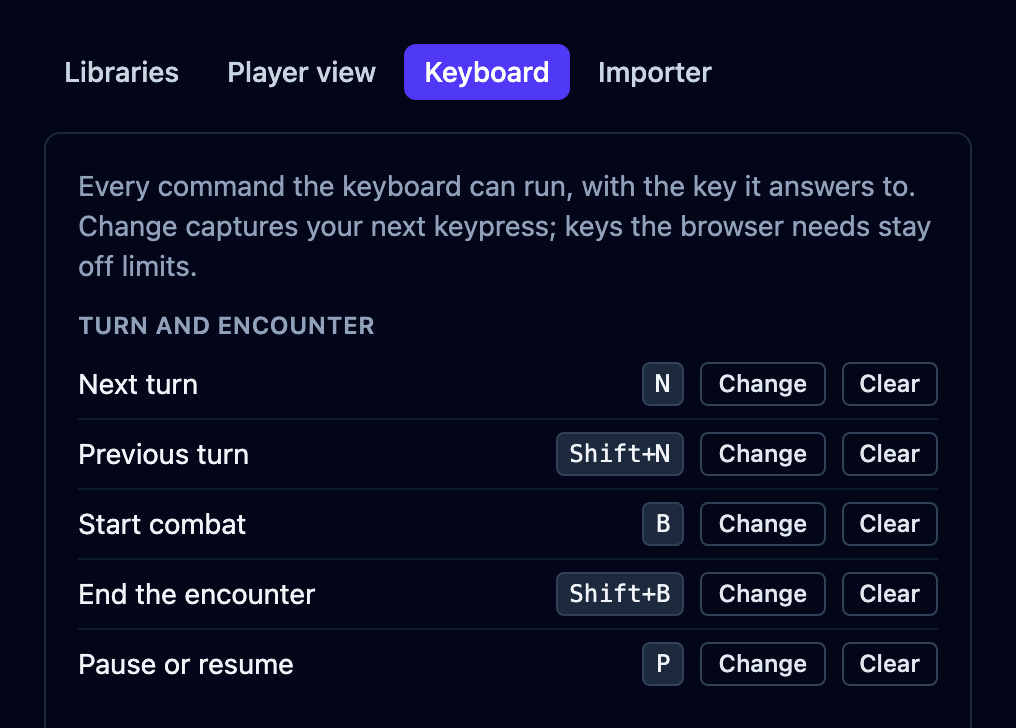
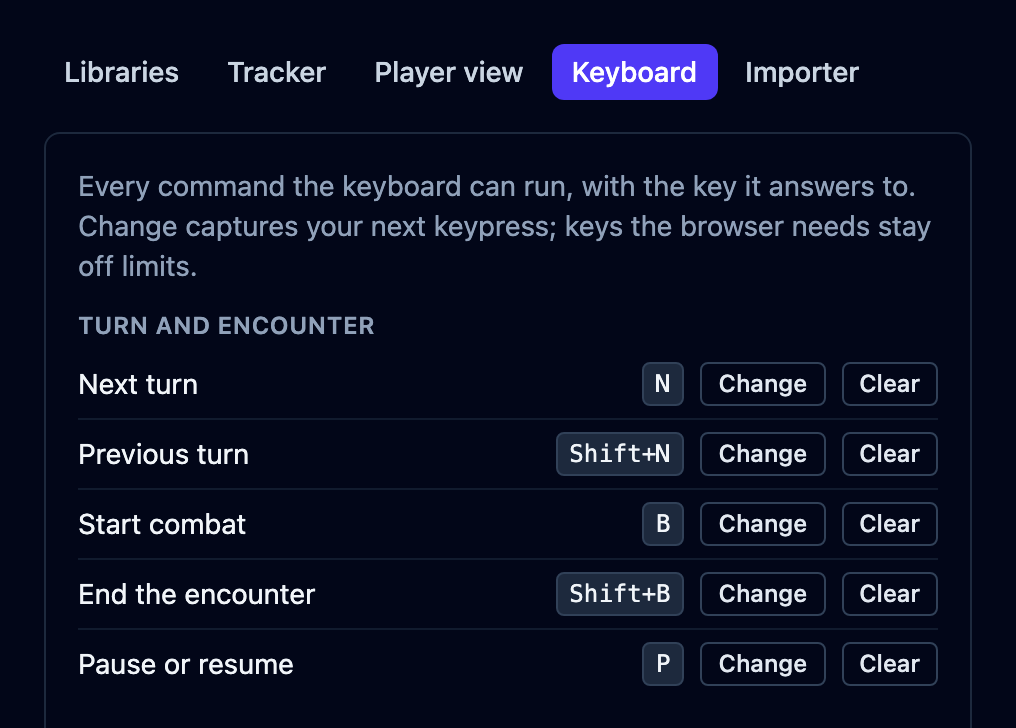
Docs: Explain stable creature label styles
Document the Tracker settings tab and refresh its related settings captures.

Refs OpenFrayApp/console#75

Changed region(s): [[0.2136, 0.0604, 0.8543, 0.1511]]

diff --git a/src/content/docs/reference/settings.md b/src/content/docs/reference/settings.md
@@ -15,8 +15,8 @@ no account needed. Click the **gear** at the top right and choose **Settings**. 
 menu holds the light and dark switch, the keyboard cheat sheet, a link to this handbook,
 and **Report a bug**, which opens a new issue on GitHub.
 
-Settings opens on four tabs (**Libraries**, **Player view**, **Keyboard**, and
-**Importer**) and starts on Libraries.
+Settings opens on five tabs (**Libraries**, **Tracker**, **Player view**, **Keyboard**,
+and **Importer**) and starts on Libraries.
 
 ## Libraries
 
@@ -47,23 +47,41 @@ remembered in your browser, so it sticks whether or not you're signed in.
 
 ![The Settings screen on its Libraries tab, with the tab strip and the library list outlined in red and labeled.](../../../assets/screens/settings-panel.png)
 
+## Tracker
+
+Open the **Tracker** tab and choose **Creature labels** to set how repeated creatures
+are labeled:
+
+| Style                 | Examples                        |
+| --------------------- | ------------------------------- |
+| **Numeric** (default) | Goblin 1, Goblin 2, Goblin 3    |
+| **Roman numerals**    | Goblin I, Goblin II, Goblin III |
+| **Letters**           | Goblin A, Goblin B, Goblin C    |
+
+A single creature keeps its name. Adding a second matching creature labels both.
+Removing creatures leaves the remaining labels unchanged. Changing the style affects
+new labels; existing labels and names you type stay as they are. Letters continue after
+Z as AA, AB, and so on.
+
+![The Tracker tab in Settings, with Creature labels set to Numeric and the dropdown outlined in red.](../../../assets/screens/creature-labels.png)
+
 ## Player view
 
 The **player view** is a read-only screen your players follow on their own devices. Its
 tab decides how much of a fight reaches them:
 
-| Setting                              | What you can choose                         | Starts as            |
-| ------------------------------------ | ------------------------------------------- | -------------------- |
-| **Creature hit points**              | In words (Bloodied) · Exact number · Hidden | In words             |
-| **Creature armor class**             | Hidden · Shown                              | Hidden               |
-| **Creature rolls**                   | Shown · Hidden                              | Shown                |
-| **Creature conditions**              | Shown · Hidden                              | Shown                |
-| **Creatures arriving mid-encounter** | Shown · Hidden until revealed               | Shown                |
-| **Game log**                         | This encounter only · The whole session     | This encounter only  |
-| **Encounter clocks**                 | Shown · Hidden                              | Shown                |
-| **End-of-encounter summary**         | Shown · Hidden                              | Shown                |
-| **Campaign name**                    | Shown · Hidden                              | Hidden               |
-| **Game Master name**                 | Shown · Hidden                              | Hidden               |
+| Setting                              | What you can choose                         | Starts as           |
+| ------------------------------------ | ------------------------------------------- | ------------------- |
+| **Creature hit points**              | In words (Bloodied) · Exact number · Hidden | In words            |
+| **Creature armor class**             | Hidden · Shown                              | Hidden              |
+| **Creature rolls**                   | Shown · Hidden                              | Shown               |
+| **Creature conditions**              | Shown · Hidden                              | Shown               |
+| **Creatures arriving mid-encounter** | Shown · Hidden until revealed               | Shown               |
+| **Game log**                         | This encounter only · The whole session     | This encounter only |
+| **Encounter clocks**                 | Shown · Hidden                              | Shown               |
+| **End-of-encounter summary**         | Shown · Hidden                              | Shown               |
+| **Campaign name**                    | Shown · Hidden                              | Hidden              |
+| **Game Master name**                 | Shown · Hidden                              | Hidden              |
 
 Player characters always show in full, whatever you pick here, and so does anyone
 fighting alongside them. Every choice reaches your players' screens straight away,
